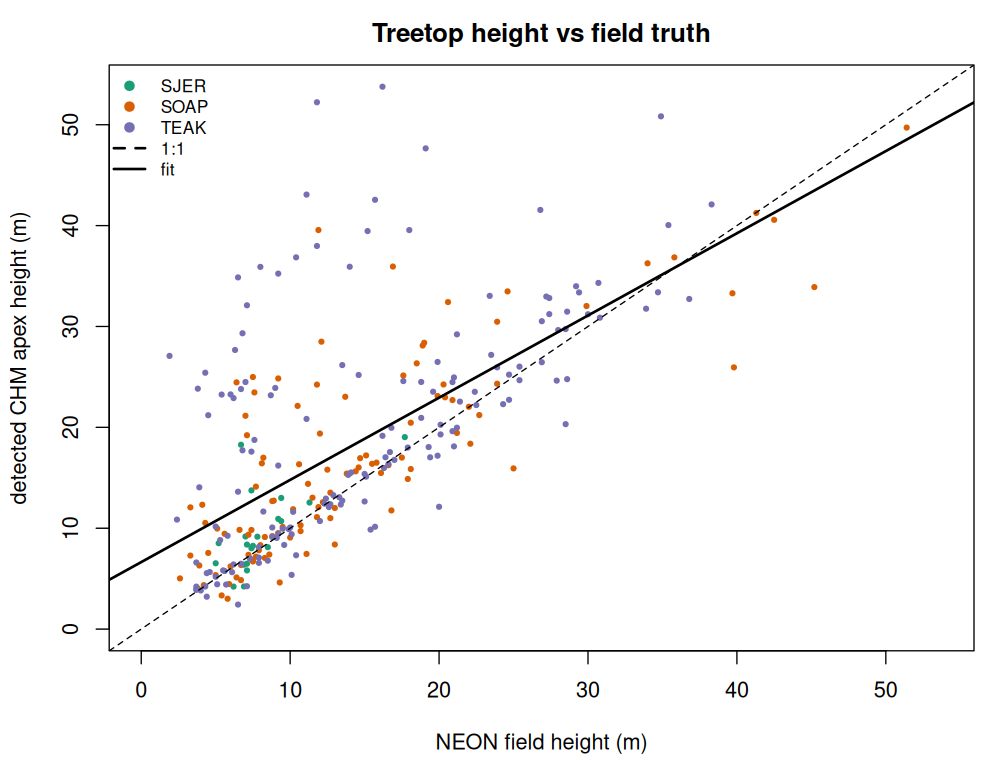
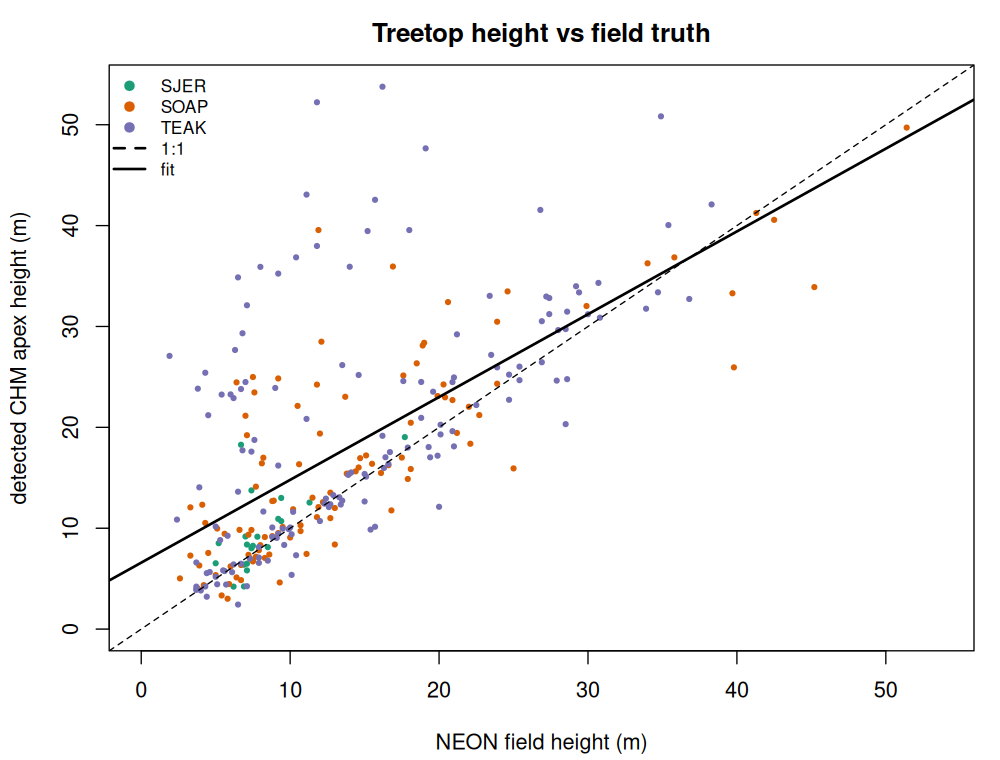
Address PR #2 review: Open-grown crown class, individualID dedup, download buffer
From the Claude+Codex PR review:
- neon_ground_truth.R: add NEON "Open grown" canopyPosition -> dominant
  (was dropped to NA; matters for SJER open oak overstory), and dedup
  mappingandtagging by individualID (a few stems carried duplicate
  mapping rows -> recall-denominator double-count).
- neon_download_lidar.R: raise byTileAOP buffer 30 -> 50 m so it always
  covers the per-plot clip reach (core_half + BUF = 45 m); existing
  downloads already cover all swept plots, so no data change.
- Rebuilt ground truth + reran all three sweeps; refreshed report tables
  and figures. Gradient unchanged (overstory SJER 0.71 > SOAP 0.57 >
  TEAK 0.40); shifts <= 0.02.

diff --git a/density-ladder-sweep-results.md b/density-ladder-sweep-results.md
@@ -18,7 +18,7 @@ field-surveyed stem ground truth. Last run: 2026-06-05.*
 - **The sweep ran on the plan's primary recommendation — NEON SOAP 2021
   (~20 pts/m² Optech Galaxy; ~12 first-returns/m²) decimated to a density
   ladder 20→8→4→2→1 pts/m² (all-return target; ~½ that in pulses)**, scored
-  against 246 field-mapped live stems in 19 plots, **stratified by crown class**
+  against 232 field-mapped live stems in 18 plots, **stratified by crown class**
   — plus the structure-gradient sites **SJER (open oak)** and **TEAK (red fir)**.
 - **Headline (SOAP, mixed conifer — the hard, multi-layered case):** detection
   **F1 is essentially flat (~0.35–0.42) across a 15× density range**; what moves
@@ -27,7 +27,7 @@ field-surveyed stem ground truth. Last run: 2026-06-05.*
   ~0.33 / precision ~0.45–0.50). The level matches the literature for mixed
   forest (Eysn 2015 ≈ 0.47 overall).
 - **Crown class is the dominant axis, exactly as the approach doc predicts:**
-  overstory (dominant+codominant) recall **~0.55 at native** vs understory
+  overstory (dominant+codominant) recall **~0.57 at native** vs understory
   (intermediate+suppressed) **~0.10–0.20**, with the **suppressed** sub-class
   falling to ~0 below 8 pts/m². Suppressed-tree omission is the figure that moves
   least with parameters — it is an occlusion floor, not a tuning problem.
@@ -65,8 +65,8 @@ the 1 km tiles overlapping field plots (≈1 GB/site instead of the full
 | Site | Forest type | Acq. | native pts/m² | native first-returns/m² | plots / live stems |
 |---|---|---|---|---|---|
 | SJER | open oak / foothill-pine woodland | 2021-03 | 16.3 | 9.0 | 8 / 71 |
-| **SOAP** | **mixed conifer/deciduous (anchor)** | **2021-07** | **18.2** | **11.9** | 19 / 246 |
-| TEAK | red fir / subalpine conifer | 2021-07 | 19.2 | 11.9 | 21 / 413 |
+| **SOAP** | **mixed conifer/deciduous (anchor)** | **2021-07** | **18.2** | **11.9** | 18 / 232 |
+| TEAK | red fir / subalpine conifer | 2021-07 | 19.2 | 11.9 | 20 / 353 |
 
 **Field stems (manual ground truth).** NEON Woody Plant Vegetation Structure
 `DP1.10098.001`. Each mapped stem records a `(pointID, stemDistance,
@@ -129,31 +129,31 @@ plots (Σ TP / Σ ref), not as a mean of per-plot rates.
 
 ## 4. Results — SOAP (mixed conifer, the anchor)
 
-19 plots, **246 live field stems** in plot-type-correct cores. Pooled, CHM
+18 plots, **232 live field stems** in plot-type-correct cores. Pooled, CHM
 res = 0.5 m, VWF `a` = 0.10:
 
 | rung (pts/m²) | first-ret/m² | recall | precision | F1 | dominant | codominant | intermediate | suppressed |
 |---|---|---|---|---|---|---|---|---|
-| native (~20) | 11.9 | **0.49** | 0.32 | 0.39 | 0.55 | 0.56 | 0.21 | 0.14 |
-| 8 | 5.8 | 0.33 | 0.45 | 0.38 | 0.45 | 0.32 | 0.15 | 0.00 |
-| 4 | 3.0 | 0.35 | 0.50 | 0.41 | 0.46 | 0.34 | 0.15 | 0.00 |
-| 2 | 1.5 | 0.30 | 0.42 | 0.35 | 0.42 | 0.26 | 0.18 | 0.00 |
-| 1 | 0.8 | 0.36 | 0.49 | 0.42 | 0.40 | 0.40 | 0.21 | 0.00 |
+| native (~20) | 11.8 | **0.50** | 0.33 | 0.40 | 0.55 | 0.58 | 0.21 | 0.14 |
+| 8 | 5.8 | 0.31 | 0.43 | 0.36 | 0.38 | 0.34 | 0.13 | 0.00 |
+| 4 | 3.0 | 0.36 | 0.51 | 0.42 | 0.48 | 0.35 | 0.21 | 0.00 |
+| 2 | 1.5 | 0.34 | 0.46 | 0.39 | 0.45 | 0.35 | 0.16 | 0.00 |
+| 1 | 0.8 | 0.34 | 0.49 | 0.40 | 0.44 | 0.35 | 0.13 | 0.00 |
 
 By **absolute height band**:
 
 | rung | first-ret/m² | tall ≥15 m | mid 8–15 m | short <8 m |
 |---|---|---|---|---|
-| native | 11.9 | 0.62 | 0.43 | 0.44 |
-| 8 | 5.8 | 0.47 | 0.28 | 0.26 |
-| 1 | 0.8 | 0.48 | 0.27 | 0.36 |
+| native | 11.8 | 0.65 | 0.43 | 0.44 |
+| 8 | 5.8 | 0.45 | 0.29 | 0.22 |
+| 1 | 0.8 | 0.55 | 0.22 | 0.29 |
 
 **Parameter main effects (pooled over all rungs):**
 
 - **CHM resolution drives the recall/precision trade:** 0.25 m → recall 0.48 /
-  precision 0.29 (over-segments); 0.5 m → 0.37 / 0.41; 1.0 m → 0.30 / 0.41.
+  precision 0.30 (over-segments); 0.5 m → 0.37 / 0.42; 1.0 m → 0.31 / 0.42.
   F1-optimal is **0.5 m** at every rung.
-- **VWF slope barely matters:** `a` ∈ {0.05, 0.10, 0.15} → F1 0.37/0.37/0.36;
+- **VWF slope barely matters:** `a` ∈ {0.05, 0.10, 0.15} → F1 0.38/0.38/0.37;
   smaller `a` (smaller windows) buys a little recall at equal precision.
 
 **Reading SOAP.** SOAP is the multi-layered mixed case the approach doc flags as
@@ -175,16 +175,16 @@ Pooled, CHM res = 0.5 m, `a` = 0.10:
 
 | Site (structure) | rung | first-ret/m² | recall | precision | F1 | **overstory** | **understory** |
 |---|---|---|---|---|---|---|---|
-| **SJER** open oak | native | 8.6 | 0.51 | 0.23 | 0.31 | **0.71** | (n=2) |
-| | 1 | 0.8 | 0.37 | 0.30 | 0.33 | 0.58 | — |
-| **SOAP** mixed conifer | native | 11.9 | 0.49 | 0.32 | 0.39 | **0.55** | 0.20 |
-| | 1 | 0.8 | 0.36 | 0.49 | 0.42 | 0.40 | 0.17 |
-| **TEAK** dense red fir | native | 11.8 | 0.36 | 0.41 | 0.38 | **0.39** | 0.12 |
-| | 1 | 0.7 | 0.22 | 0.45 | 0.30 | 0.24 | 0.09 |
+| **SJER** open oak | native | 8.6 | 0.49 | 0.22 | 0.31 | **0.71** | (n=2) |
+| | 1 | 0.8 | 0.41 | 0.30 | 0.35 | 0.57 | — |
+| **SOAP** mixed conifer | native | 11.8 | 0.50 | 0.33 | 0.40 | **0.57** | 0.20 |
+| | 1 | 0.8 | 0.34 | 0.49 | 0.40 | 0.39 | 0.11 |
+| **TEAK** dense red fir | native | 11.5 | 0.37 | 0.40 | 0.38 | **0.40** | 0.13 |
+| | 1 | 0.7 | 0.23 | 0.45 | 0.31 | 0.25 | 0.07 |
 
 **The headline cross-site result — structure beats species and density.**
-Overstory detection is ordered **open oak (0.71) > mixed conifer (0.55) > dense
-red fir (0.39)** — the *opposite* of what crown shape alone predicts (fir has the
+Overstory detection is ordered **open oak (0.71) > mixed conifer (0.57) > dense
+red fir (0.40)** — the *opposite* of what crown shape alone predicts (fir has the
 "ideal" single sharp apex; oak is broad and multi-domed). The driver is
 **canopy packing**: TEAK's codominant firs are tightly interlocked, so the CHM
 merges adjacent crowns (under-segmentation) and codominant recall collapses to
@@ -214,19 +214,19 @@ density, res 0.5 m, `a` 0.10:
 
 | stratum | n | bias (apex−field) | RMSE | MAE | R² | fit slope |
 |---|---|---|---|---|---|---|
-| **dominant** | 97 | **+1.00 m** | **4.36 m** | 2.66 | **0.85** | **0.97** |
-| codominant | 152 | +5.20 m | 10.94 m | 6.70 | 0.31 | 0.79 |
+| **dominant** | 94 | **+1.03 m** | **4.45 m** | 2.70 | **0.85** | **0.98** |
+| codominant | 149 | +5.17 m | 10.97 m | 6.69 | 0.31 | 0.79 |
 | intermediate | 26 | +8.72 m | 11.49 m | 8.74 | 0.14 | 0.65 |
 | SJER (open oak) | 21 | +1.43 m | 3.32 m | 2.21 | 0.42 | 0.98 |
-| SOAP (mixed) | 110 | +2.71 m | 6.80 m | 4.44 | 0.63 | 0.81 |
-| TEAK (packed fir) | 152 | +5.38 m | 11.04 m | 6.59 | 0.34 | 0.76 |
+| SOAP (mixed) | 107 | +2.72 m | 6.88 m | 4.50 | 0.63 | 0.81 |
+| TEAK (packed fir) | 144 | +5.52 m | 11.26 m | 6.75 | 0.34 | 0.77 |
 
 ![Detected apex height vs NEON field height](results/figures/height_validation.png)
 
 **Height is recovered well for the trees you can actually see, and is
 meaningless for the ones you can't — the same occlusion story as detection, now
 in metres.** For **dominant** trees the CHM apex tracks field height almost 1:1
-(slope 0.97, R² 0.85, bias **+1 m**, RMSE 4.4 m — within NEON's own ±1–2 m
+(slope 0.98, R² 0.85, bias **+1 m**, RMSE 4.4 m — within NEON's own ±1–2 m
 rangefinder error). The small positive bias is expected: the CHM catches the true
 apex while the field rangefinder tends to under-read tall crowns. Down the crown
 classes the bias **balloons (+5 m codominant, +9 m intermediate)** and R²
@@ -239,8 +239,8 @@ approach doc says to **report metrics stratified by crown class**.
 ## 7. What the sweep says about each swept axis
 
 - **Density (the deciding variable).** Across all three sites, **overstory
-  recall degrades gently** from ~16–19 pts/m² down to ~1 pts/m² (SJER 0.71→0.58,
-  SOAP 0.55→0.40, TEAK 0.39→0.24) while **understory stays low at every density**
+  recall degrades gently** from ~16–19 pts/m² down to ~1 pts/m² (SJER 0.71→0.57,
+  SOAP 0.57→0.39, TEAK 0.40→0.25) while **understory stays low at every density**
   (SOAP ~0.13–0.20, TEAK ~0.07–0.12; SJER understory n is too small to read). The
   SOAP **suppressed** sub-class specifically goes to ~0 below 8 pts/m². **Overall
   F1 is essentially flat (~0.30–0.42)** across a 10–20× density range: sparser
@@ -311,8 +311,12 @@ approach doc says to **report metrics stratified by crown class**.
   and re-run: the distributed-plot 40×40 core (→ plot-type-aware), the
   no-upsampling guard comparing against post-decimation density, the VWF window
   not clamped at 5 m, a latent factor→integer crown-class coercion (never
-  triggered), and NaN guards in the pooling. The numbers above are the post-fix
-  run.
+  triggered), and NaN guards in the pooling. A second PR review (Claude + Codex)
+  added three more, also fixed and re-run here: the `Open grown` `canopyPosition`
+  level was missing from the crown-class map (dropped open-grown overstory,
+  notably at SJER), a few `individualID`s carried duplicate mapping records
+  (recall-denominator double-count), and the tile-download buffer was raised to
+  ≥ the per-plot clip reach. The numbers above are the post-fix run.
 
 ## 9. Reproduce
 
